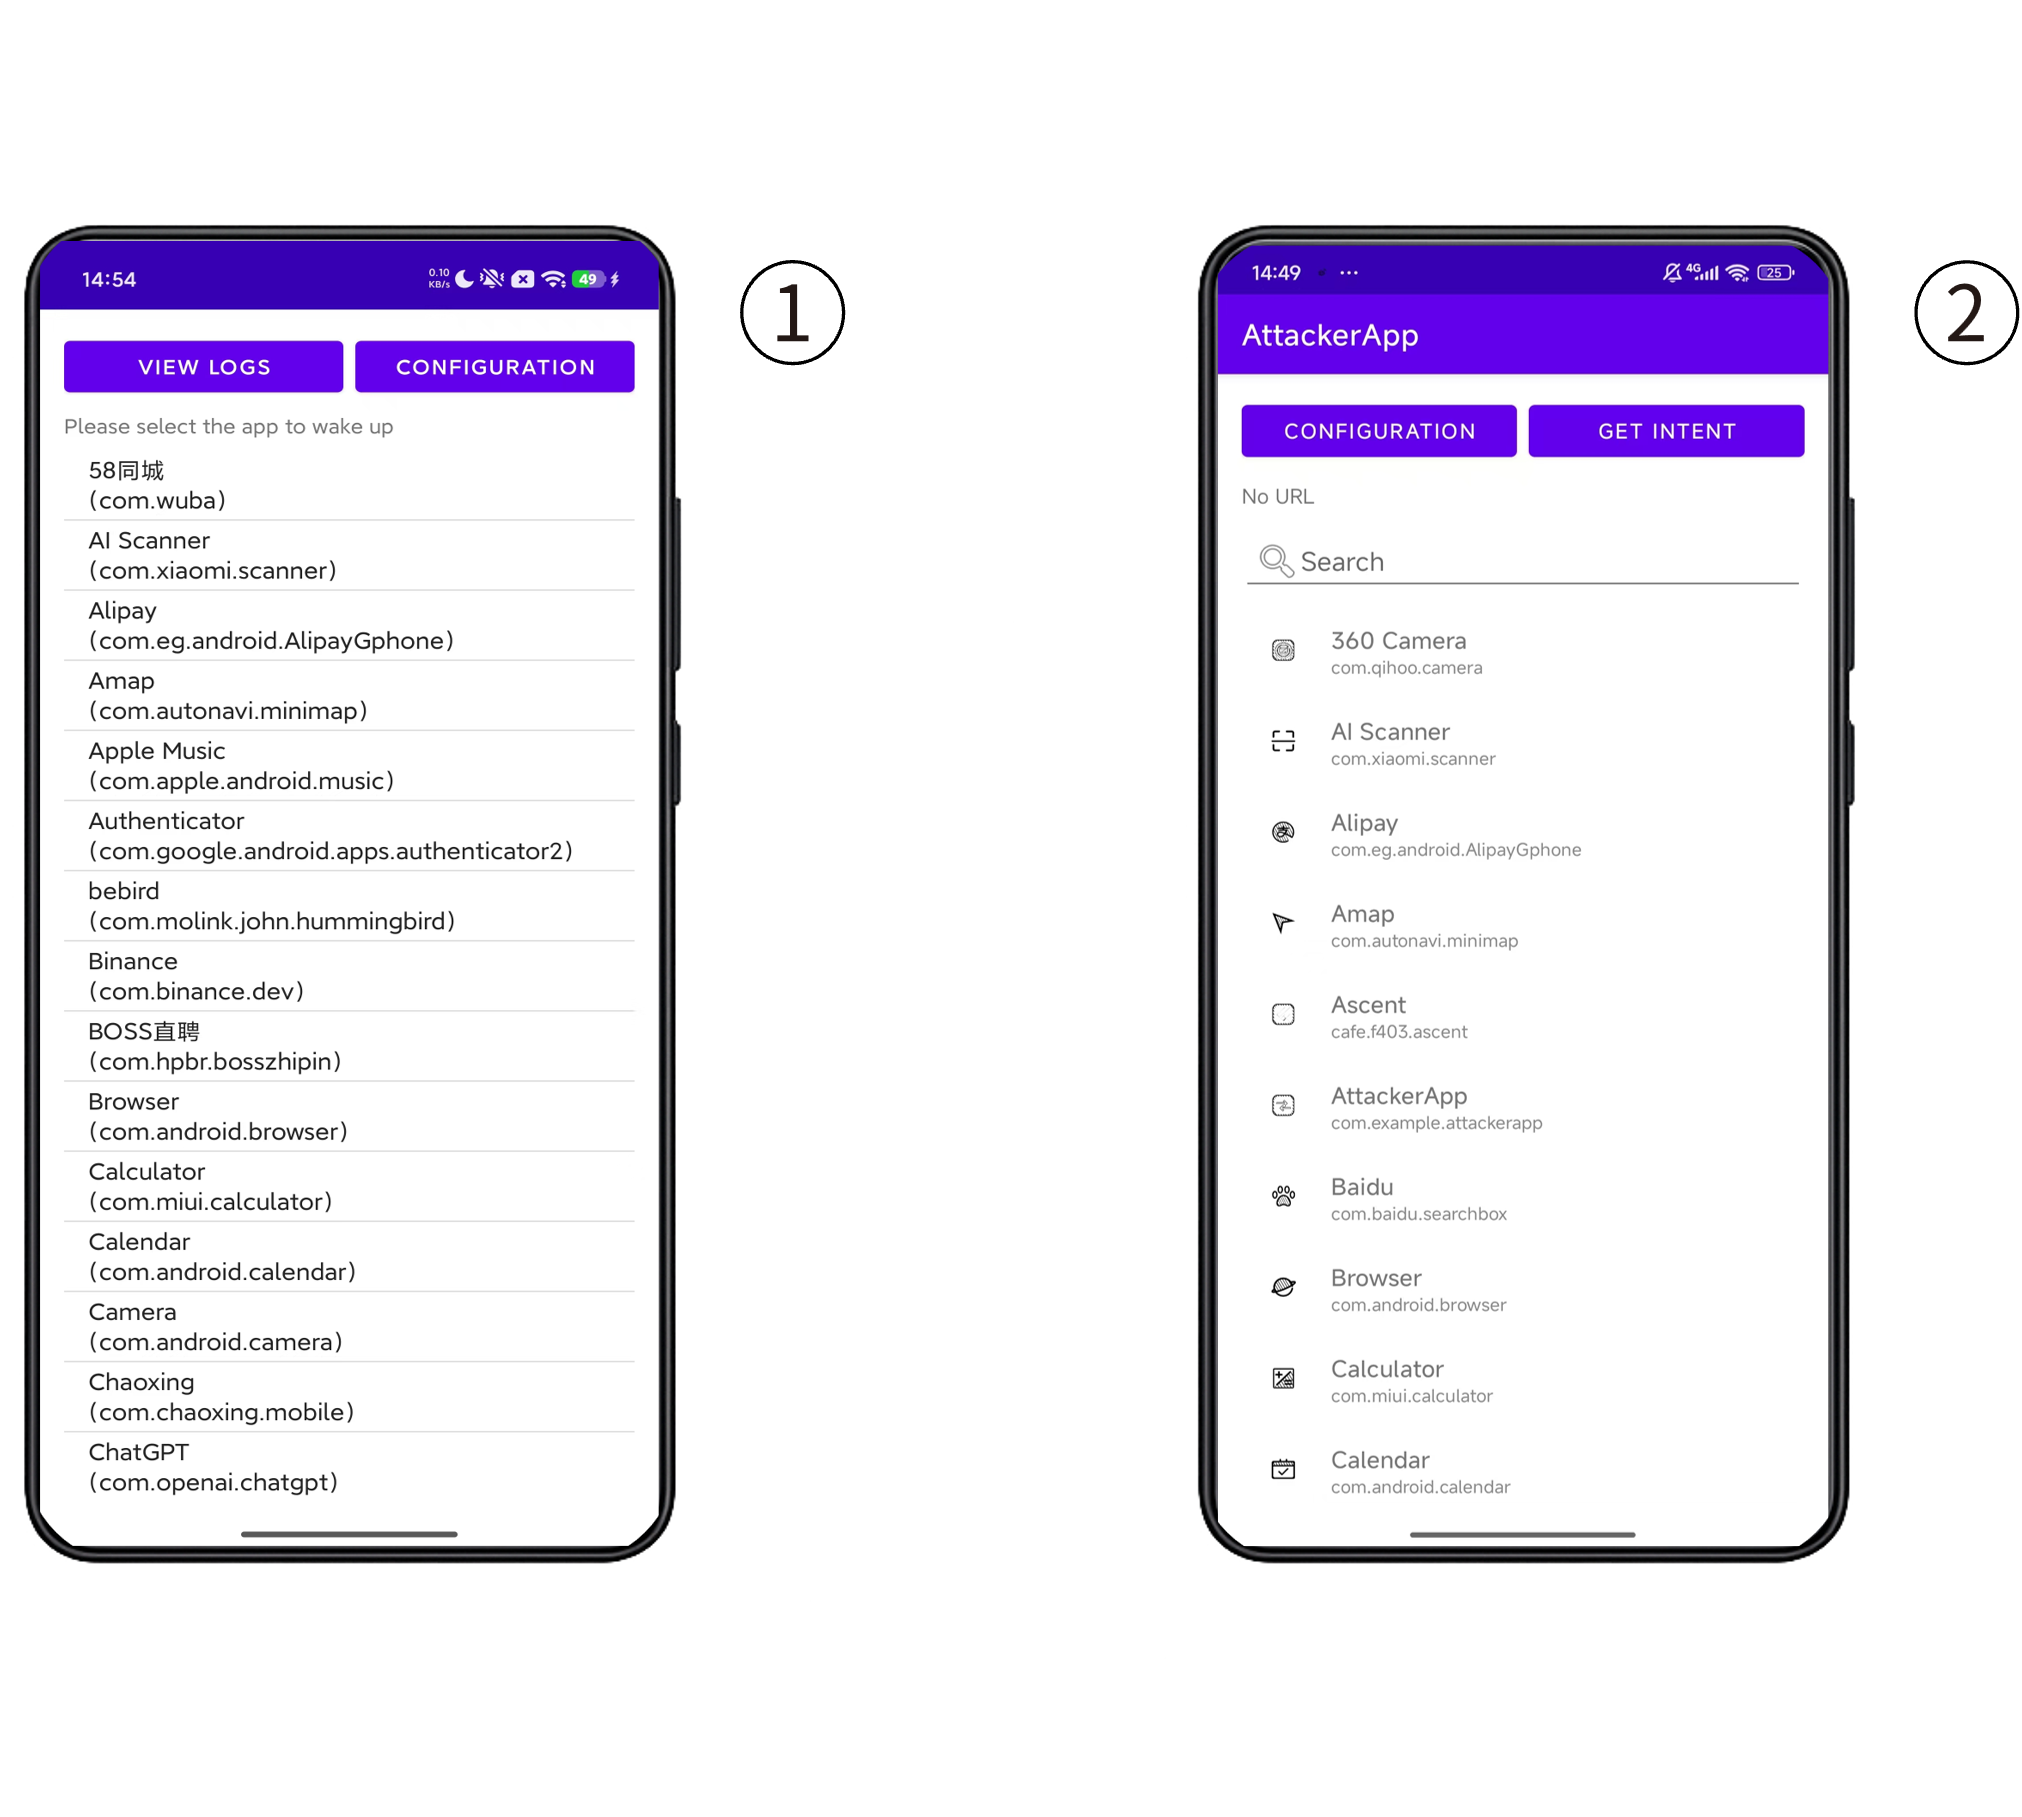
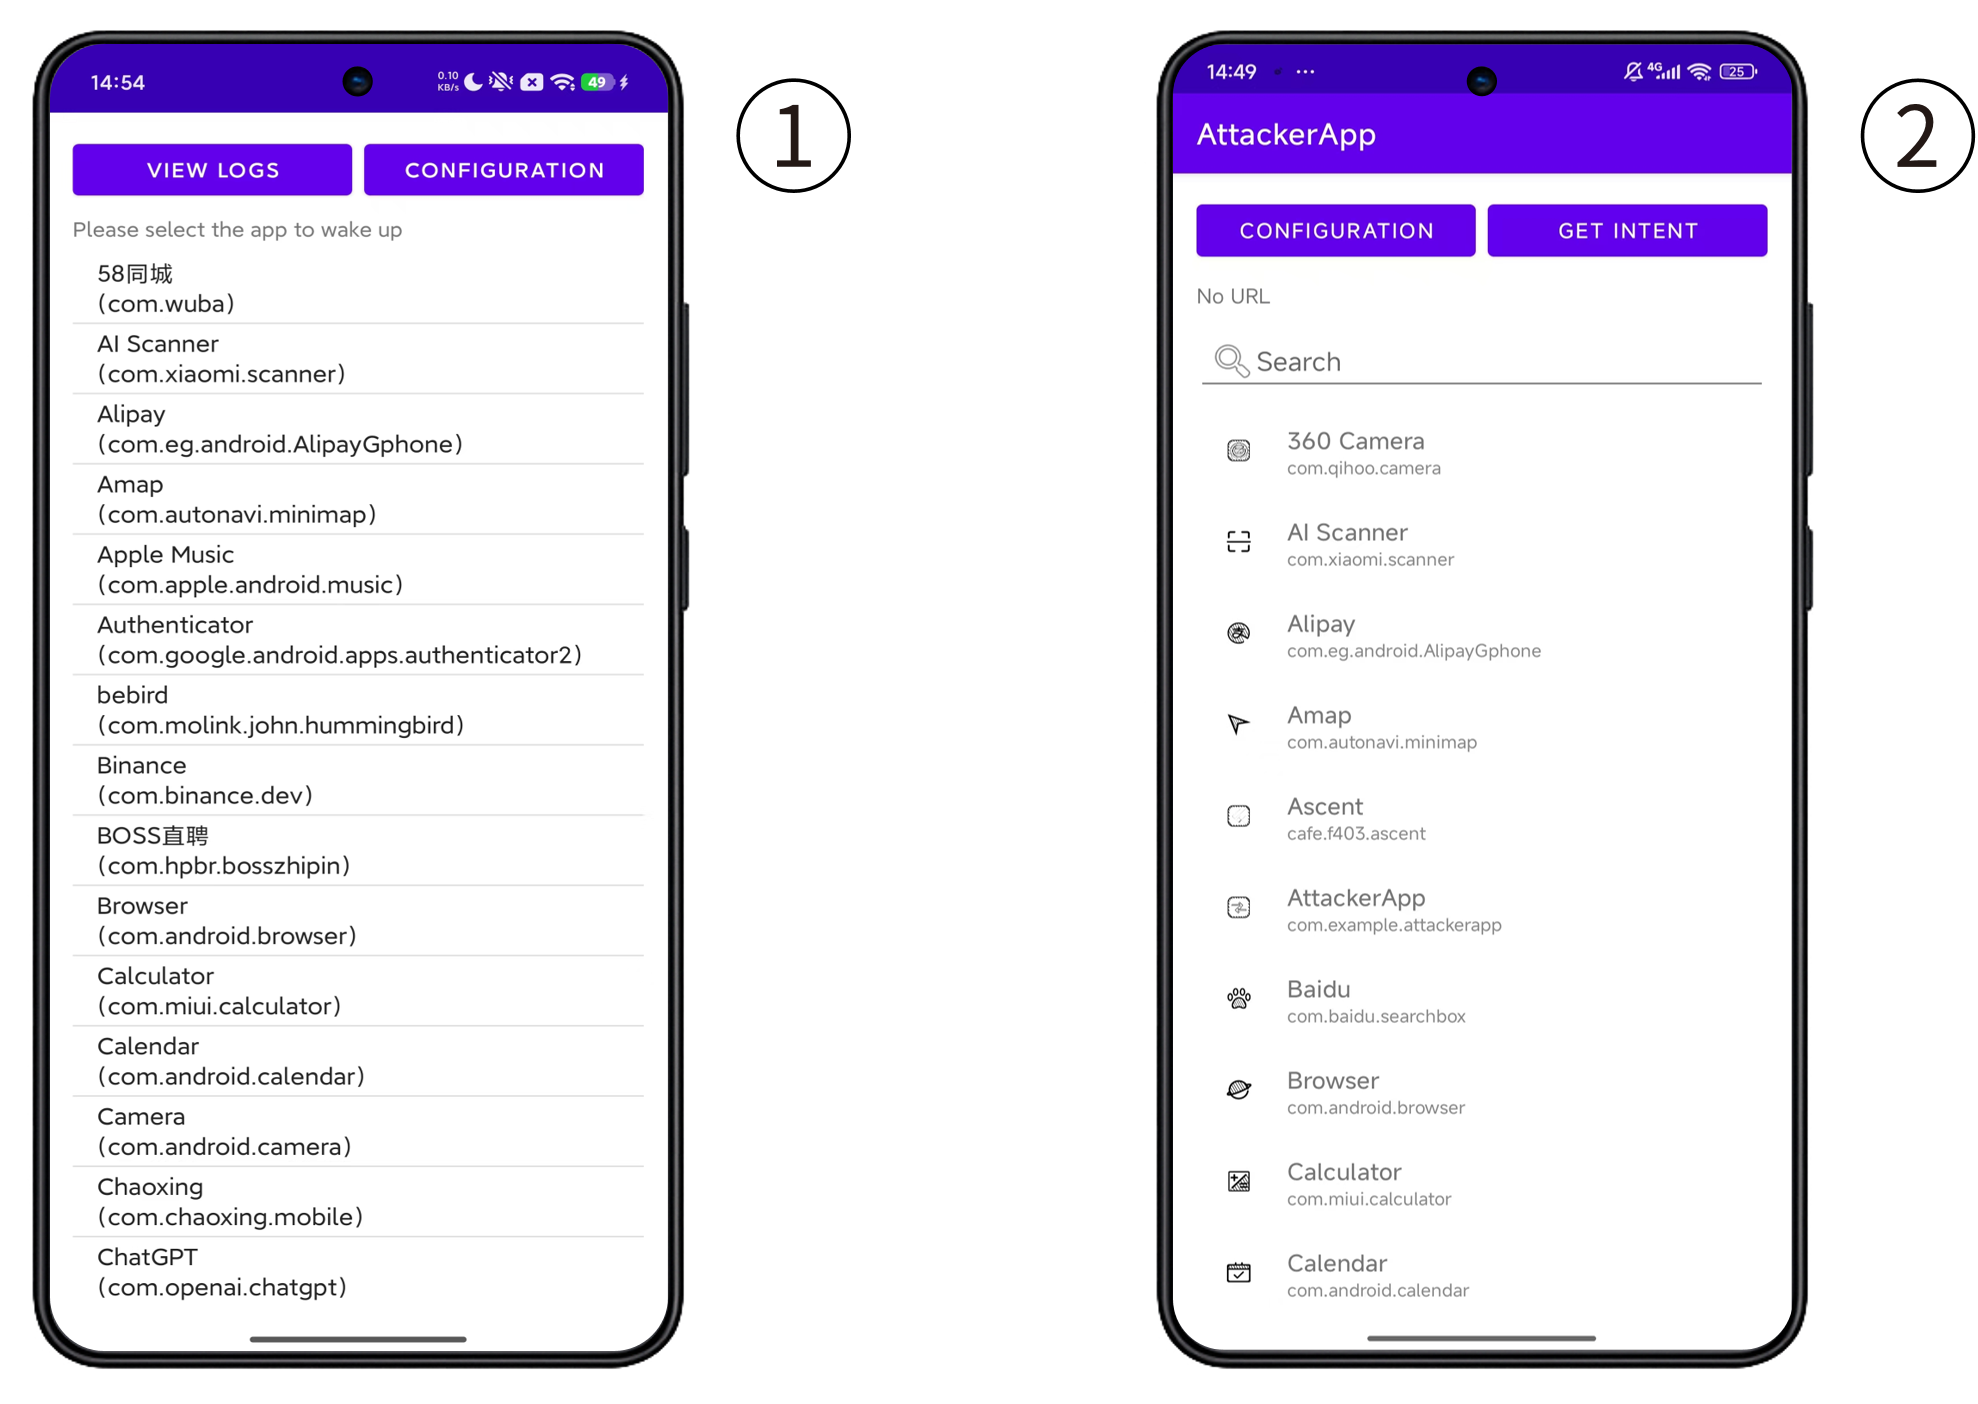
update(section) intro

Changed region(s): [[0.0, 0.0, 0.4317, 0.9801], [0.5859, 0.0, 0.9252, 0.9801], [0.956, 0.0613, 1.0, 0.2144]]

diff --git a/sections/introduction.tex b/sections/introduction.tex
@@ -32,57 +32,43 @@ These studies reveal a critical issue: the cryptographic mechanisms employed by 
 From the perspective of payment service providers, \emph{adopting weaker security assumptions for external channels better reflects the relities of modern payment environments}.
 This observation \emph{motivates us to analyze the security of third-party online payment protocols under weakened external channel security assumptions}.
 
-Based on the developer manuals of major third-party service providers, 
-we construct a comprehensive symbolic model that covers four entities in the ecosystem, three representative payment scenarios, and \textcolor{red}{two payment models}.
-Our model adopts weak channel assumptions, allowing the adversary to eavesdrop on, tamper with, replay, or inject messages on certain channels.
-To systematically capture the adversary's ability to interact with merchants and payment platforms in the real world, 
-we introduce two oracle models that formalize the adversary's capabilities in order creation and payment information acquisition, respectively.
-Centered on the three core semantic aspects (\emph{order}, \emph{authorization}, and \emph{result}), we define and formalize a set of injective agreement security properties.
-These properties impose layered semantic constraints on the ``order–authorization–result'' chain in the payment workflow, providing verifiable and comparable security criteria.
+In this paper, we establish comprehensive symbolic models for third-party online payment protocols.
+By thoroughly examining the developer documentation of Alipay and WeChat Pay, we abstract six representative payment protocol models across three core payment scenarios.
+Our model faithfully reflects the design details of real-world protocols and covers the complete payment workflow from order placement to payment completion.
+Based on the analyzed protocols, we abstract high-level design models for third-party payment protocols and investigate the common security issues at this level.
+In addition, to capture capabilities of the adversary in the real world, we explicitly model the details of the adversary's behavior.
+Particularly, we grant the adversary the ability to legitimately access merchant platforms to create orders and obtain payment parameters.
 
-Using this formal framework, we identify a widespread class of \emph{order tampering attacks} that has not been thoroughly characterized in prior work.
-Our key insight is that the presence of any insecure channel between the user and the merchant prevents existing payment models from guaranteeing order consistency across scenarios.
-We further classify two major attack variants based on which communication channels are compromised.
-Notably, these attacks do not rely on breaking cryptographic primitives or compromising secret keys. 
-Instead, they arise from protocol designs that fail to strongly bind order semantics to user authorization and that lack systematic robustness against weak channel assumptions.
+We formally define a set of security properties for third-party online payment protocols from three dimensions: order, authorization, and result.
+Based on these properties, we conduct formal verification of the six real-world payment models under weakened channel security assumptions using the Tamarin Prover~\cite{Meier2013TAMARINProver}.
+Our analysis reveals a pervasive yet underexplored design anti-pattern: mainstream high-level payment models generally lack a mechanism that binds user payment authorization to the intended order.
+Consequently, once the communication channel between the user and the merchant is compromised, an adversary can induce the user to authorize an arbitrary order.
+Inspired by our formal analysis results, we identify a novel variant of the Order Tampering Attack.
 
-To assess the real-world impact, we conducted an empirical study on the Android and found that many merchant applications interact with payment applications via implicit Intents, making the \emph{MF}--\emph{PS} path vulnerable to interception and tampering by malicious third-party applications.
-We developed a proof-of-concept attack application and successfully reproduced order tampering attacks in real-world settings.
-We further evaluated a larger dataset spanning multiple apps and versions, totaling 461 samples. 
-Our results show that more than $25\%$ of the samples are vulnerable.
-Collectively, these applications have accumulated over 200 billion downloads, potentially affecting billions of users.
-We responsibly disclosed our findings to the security teams of Alipay and WeChat Pay. 
-Alipay has already deployed fixes, while WeChat Pay is in the process of mitigation at the time of writing.
+We further observe that many merchant applications on the Android platform incorrectly use implicit Intents to interact with payment applications.
+This misuse exposes the transmission of payment parameters to interception by malicious applications.
+We develop a set of proof-of-concept attack applications that exploit this vulnerability and successfully perform Order Tampering Attacks in real-world payment environments.
+To assess the severity of this issue, we conduct a measurement study covering 461 popular applications across multiple domains, including online shopping, online education, entertainment, and gaming.
+Our results show that more than $25\%$ of the sampled applications are vulnerable.
+These applications collectively account for over 200 billion downloads, potentially affecting billions of users.
 
-To address these threats, we propose a deployable, backward-compatible, user-side order authentication mechanism that enforces a strong binding between user authorization and order semantics.
-Under the weak channel assumptions, we formally verify this mechanism and show that it satisfies all security properties defined in this paper.
-As a result, it prevents order tampering and result injection attacks at the protocol level while maintaining practical deployability.
+To address these threats, we propose a user-side order authentication mechanism that is deployable and backward-compatible, and that establishes an explicit binding between user authorization and orders.
+Under the weakened channel assumptions, we formally verify this mechanism and show that it satisfies all security properties defined in this paper.
+As a result, it prevents order tampering at the protocol design level while maintaining practical deployability.
 
-\textbf{Contributions.}
+\noindent\textbf{Contributions.}
 We make the following contributions:
 \begin{enumerate}
-  % \item \textbf{Unified abstraction and formal modeling.}
-  %   We propose a unified abstraction for third-party online payments, covering four entities and systematically model three payment scenarios and two mainstream models using Tamarin under the Dolev–Yao adversary model.
-  % \item \textbf{Layered semantic security model and properties.}
-  %   We introduce a layered semantic security model from orders to resutls, and formally define a set of injective agreement properties that provide verifiable and comparable end-to-end security criteria.
-  % \item \textbf{Systematic identification of order tampering attacks.}
-  %   Through automated verification, we show that insecure user–merchant channels enable order tampering across all scenarios, classify two major attack variants, and analyze the conditions and impact of result injection.
-  % \item \textbf{Real-world evaluation and impact quantification.}
-  %   We reproduce implicit-Intent-based order tampering attacks in the Android ecosystem, measure 462 app versions and find that about 20\% are affected, impacting hundreds of millions of users, and conduct responsible disclosure.
-  % \item \textbf{Deployable countermeasures with formal guarantees.}
-  %    We propose a user-side order authentication mechanism that distinguishes first-time and subsequent payments for compatibility, and formally prove that it satisfies all security properties under weak channel assumptions.
-  % \item \textbf{Methodological and practical insights.}
-  %   We demonstrate how combining formal methods with empirical analysis uncovers systemic design flaws and informs secure payment protocol design, standardization, and practice.
-  \item \textbf{Formal Modeling for Third-Party Payments}
-    We propose a comprehensive formal model that covers mainstream third-party payment ecosystems. 
-    Under weak channel assumptions, the model captures multiple entities, payment scenarios, payment models, and payment service providers.
-    We systematically defines a set of verifiable and comparable injective consistency security properties based on the core semantic chain of ``order--authorization--outcome''.
-  \item \textbf{Systematic Identification of Attacks}
-    Based on the verification results under the above formal framework, 
-    we systematically uncover and classify a class of order tampering attacks for the first time. 
-    We show that the presence of any insecure user--merchant channel breaks order consistency, and we reproduce these attacks in the real-world Android ecosystem to quantify their impact.
-  \item \textbf{Formally Verified and Deployable Defenses}
-    We propose a backward-compatible and practically deployable user-side order authentication mechanism.
-    It achieves a strong binding between user authorization and order semantics with minimal modifications to existing payment workflows. 
-    Under the weak channel model, we formally prove that it can effectively defend against existing attacks.
+  \item \textbf{Formal modeling and analysis.}
+    We develop a unified symbolic modeling framework for third-party online payment protocols and apply it to rigorously analyze representative real-world protocols under realistic adversary and channel assumptions.
+  \item \textbf{Discovery of a new attack.}
+    We identify a novel variant of the Order Tampering Attack that arises from a pervasive design anti-pattern in high-level payment models, rather than from protocol implementations or platform-specific flaws.
+  \item \textbf{Design of a practical mitigation.}
+    We propose a deployable and backward-compatible user-side authentication mechanism, and formally prove that it eliminates order tampering at the protocol design level while preserving real-world applicability.
 \end{enumerate}
+
+\noindent\textbf{Disclosure.}
+We responsibly disclosed our findings to the security teams of Alipay and WeChat Pay.
+The reported vulnerabilities were acknowledged by both parties, and, at the time of writing, remediation efforts are actively underway.
+In addition, we notified the developers of xxx vulnerable merchant applications identified in our study and provided concrete security recommendations.
+We received positive responses from xxx of these developers, who indicated their intent to address the reported issues.

diff --git a/sections/real_world.tex b/sections/real_world.tex
@@ -28,7 +28,7 @@ This enables an attacker to hijack payment requests by installing a malicious ap
 
 \begin{figure}[t]
   \centering
-  \includegraphics[width=\linewidth]{img/black.png}
+  \includegraphics[width=0.75\linewidth]{img/setup.png}
   \caption{Real-World Attack Setup}
   \label{fig:real_world_attack_devices}
 \end{figure}
